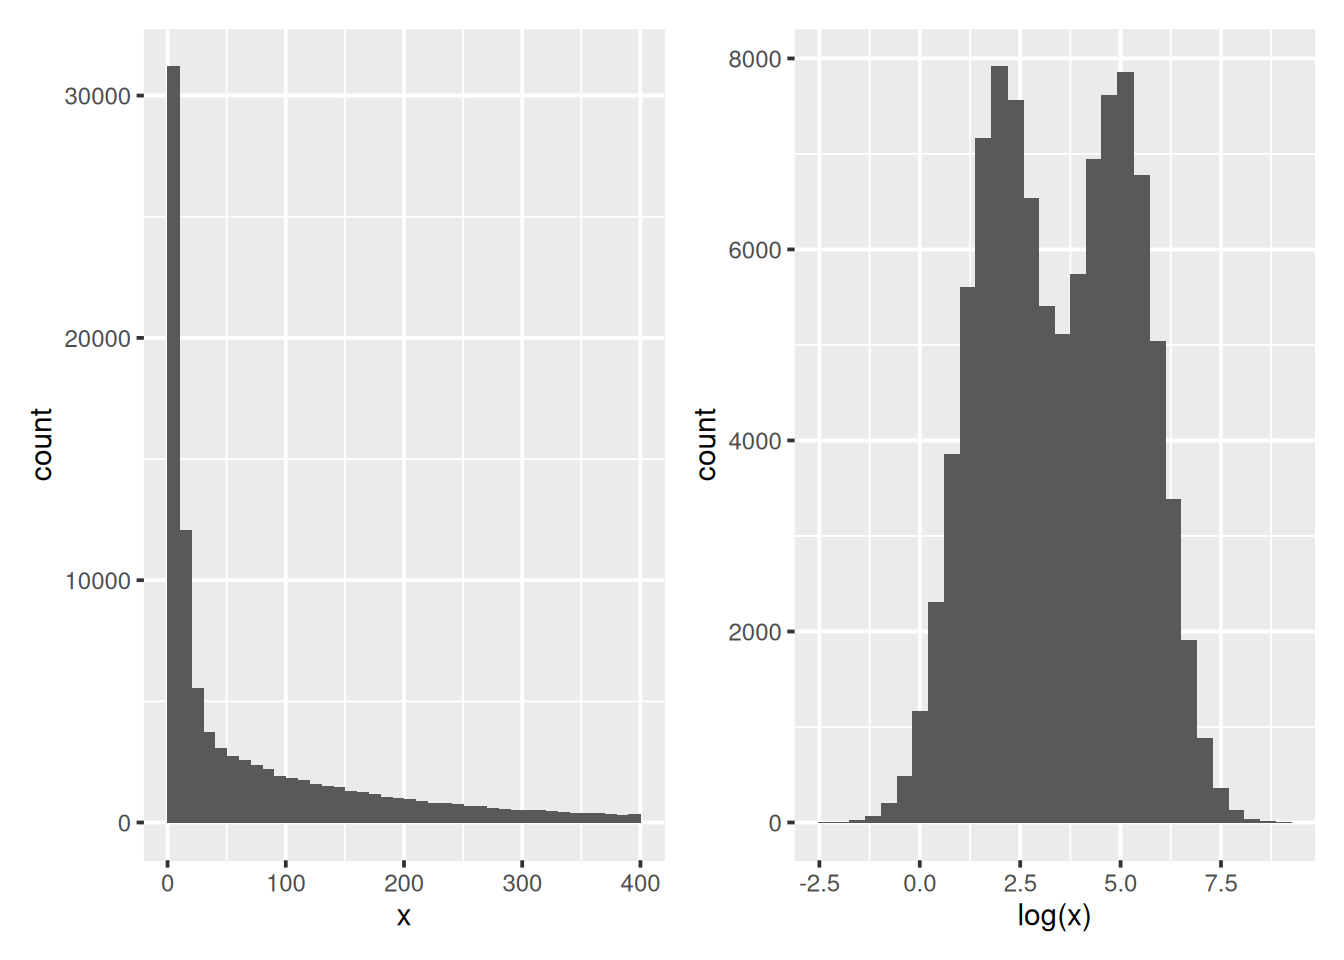
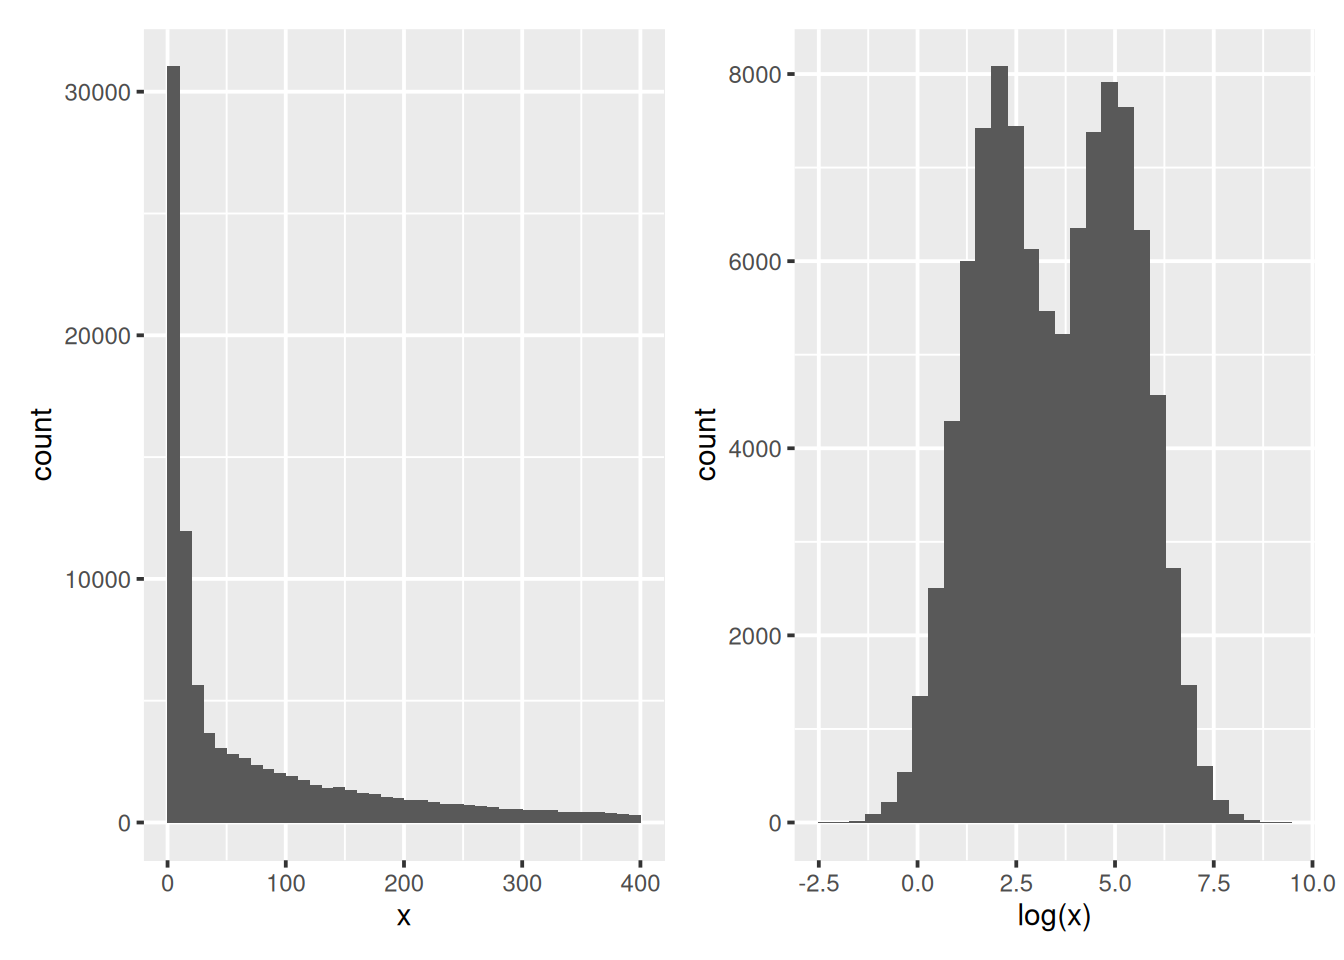
update course

diff --git a/docs/sec-vis.html b/docs/sec-vis.html
@@ -13,7 +13,7 @@
 
 <meta name="author" content="Laurent Gatto" />
 
-<meta name="date" content="2025-10-14" />
+<meta name="date" content="2025-10-15" />
 
 <script type="text/x-mathjax-config">
 MathJax.Hub.Config({
@@ -949,7 +949,7 @@ of the data.</p>
 <span id="cb36-9"><a href="sec-vis.html#cb36-9" tabindex="-1"></a>p2 <span class="ot">&lt;-</span>  <span class="fu">ggplot</span>(sim, <span class="fu">aes</span>(<span class="fu">log</span>(x))) <span class="sc">+</span></span>
 <span id="cb36-10"><a href="sec-vis.html#cb36-10" tabindex="-1"></a>    <span class="fu">geom_histogram</span>(<span class="at">bins =</span> <span class="dv">30</span>)</span>
 <span id="cb36-11"><a href="sec-vis.html#cb36-11" tabindex="-1"></a>p1 <span class="sc">+</span> p2</span></code></pre></div>
-<pre><code>## Warning: Removed 7997 rows containing non-finite outside the scale range
+<pre><code>## Warning: Removed 8016 rows containing non-finite outside the scale range
 ## (`stat_bin()`).</code></pre>
 <div class="figure">
 <span style="display:block;" id="fig:sim"></span>
@@ -1198,7 +1198,7 @@ otherwise. Below are some example outputs.</p>
 <a href="sec-obj.html"><button class="btn btn-default">Next</button></a>
 </p>
 <p class="build-date">Page built: 
-2025-10-14
+2025-10-15
  using 
 R version 4.5.0 (2025-04-11)
 </p>

diff --git a/docs/sec-biostrings.html b/docs/sec-biostrings.html
@@ -13,7 +13,7 @@
 
 <meta name="author" content="Laurent Gatto" />
 
-<meta name="date" content="2025-10-14" />
+<meta name="date" content="2025-10-15" />
 
 <script type="text/x-mathjax-config">
 MathJax.Hub.Config({
@@ -884,7 +884,11 @@ manually reviewed complete human proteome (containing about 20500
 proteins). To do so, choose <em>Proteomes</em> on the main page, then search
 for <em>Homo sapiens</em>, select it among the list of hits, choose the
 reviewed Swiss-Prot release, and download all entries in compressed
-fasta format (see <a href="https://youtu.be/K-MVjwZzSoY">video</a>).</p>
+fasta format.</p>
+<p>Alternatively, under <em>Proteins UniProt Knowledge base</em>, choose
+<em>Reviewed (SwissProt)</em>, then in the left panel, select Human (20,420),
+then <em>Download</em>, choosing <em>FASTA (canonical)</em> and <em>compressed</em> format
+(<a href="https://youtu.be/NHuC47xn-e4">video</a>).</p>
 <p class="question-end">
 <span class="fa fa-square-o solution-icon"></span>
 </p>
@@ -957,7 +961,7 @@ proteins.</p>
 <a href="sec-norm.html"><button class="btn btn-default">Next</button></a>
 </p>
 <p class="build-date">Page built: 
-2025-10-14
+2025-10-15
  using 
 R version 4.5.0 (2025-04-11)
 </p>

diff --git a/docs/sec-sl.html b/docs/sec-sl.html
@@ -13,7 +13,7 @@
 
 <meta name="author" content="Laurent Gatto" />
 
-<meta name="date" content="2025-10-14" />
+<meta name="date" content="2025-10-15" />
 
 <script type="text/x-mathjax-config">
 MathJax.Hub.Config({
@@ -1051,7 +1051,7 @@ most reliable assignments one, and setting the unreliable ones to
 <a href="sec-biovis.html"><button class="btn btn-default">Next</button></a>
 </p>
 <p class="build-date">Page built: 
-2025-10-14
+2025-10-15
  using 
 R version 4.5.0 (2025-04-11)
 </p>

diff --git a/docs/sec-norm.html b/docs/sec-norm.html
@@ -13,7 +13,7 @@
 
 <meta name="author" content="Laurent Gatto" />
 
-<meta name="date" content="2025-10-14" />
+<meta name="date" content="2025-10-15" />
 
 <script type="text/x-mathjax-config">
 MathJax.Hub.Config({
@@ -759,7 +759,7 @@ samples distributions at each step. Interpret what you see.</p>
 <a href="sec-mlintro.html"><button class="btn btn-default">Next</button></a>
 </p>
 <p class="build-date">Page built: 
-2025-10-14
+2025-10-15
  using 
 R version 4.5.0 (2025-04-11)
 </p>

diff --git a/docs/sec-biovis.html b/docs/sec-biovis.html
@@ -13,7 +13,7 @@
 
 <meta name="author" content="Laurent Gatto" />
 
-<meta name="date" content="2025-10-14" />
+<meta name="date" content="2025-10-15" />
 
 <script type="text/x-mathjax-config">
 MathJax.Hub.Config({
@@ -493,7 +493,7 @@ number of intersections (default is 40) become useful.</p>
 <a href="sec-ccl.html"><button class="btn btn-default">Next</button></a>
 </p>
 <p class="build-date">Page built: 
-2025-10-14
+2025-10-15
  using 
 R version 4.5.0 (2025-04-11)
 </p>

diff --git a/docs/sec-ccl.html b/docs/sec-ccl.html
@@ -13,7 +13,7 @@
 
 <meta name="author" content="Laurent Gatto" />
 
-<meta name="date" content="2025-10-14" />
+<meta name="date" content="2025-10-15" />
 
 <script type="text/x-mathjax-config">
 MathJax.Hub.Config({
@@ -511,7 +511,7 @@ effect of that outlier of the differential analysis.</li>
 <a href="sec-si.html"><button class="btn btn-default">Next</button></a>
 </p>
 <p class="build-date">Page built: 
-2025-10-14
+2025-10-15
  using 
 R version 4.5.0 (2025-04-11)
 </p>

diff --git a/docs/sec-obj.html b/docs/sec-obj.html
@@ -13,7 +13,7 @@
 
 <meta name="author" content="Laurent Gatto" />
 
-<meta name="date" content="2025-10-14" />
+<meta name="date" content="2025-10-15" />
 
 <script type="text/x-mathjax-config">
 MathJax.Hub.Config({
@@ -1029,7 +1029,7 @@ of class <code>SummarizedExperiment</code>.</p>
 <a href="sec-biostrings.html"><button class="btn btn-default">Next</button></a>
 </p>
 <p class="build-date">Page built: 
-2025-10-14
+2025-10-15
  using 
 R version 4.5.0 (2025-04-11)
 </p>

diff --git a/docs/sec-mlintro.html b/docs/sec-mlintro.html
@@ -13,7 +13,7 @@
 
 <meta name="author" content="Laurent Gatto" />
 
-<meta name="date" content="2025-10-14" />
+<meta name="date" content="2025-10-15" />
 
 <script type="text/x-mathjax-config">
 MathJax.Hub.Config({
@@ -758,7 +758,7 @@ but these are beyond the scope of this course.</p>
 <a href="sec-testing.html"><button class="btn btn-default">Next</button></a>
 </p>
 <p class="build-date">Page built: 
-2025-10-14
+2025-10-15
  using 
 R version 4.5.0 (2025-04-11)
 </p>

diff --git a/docs/sec-refresher.html b/docs/sec-refresher.html
@@ -13,7 +13,7 @@
 
 <meta name="author" content="Laurent Gatto" />
 
-<meta name="date" content="2025-10-14" />
+<meta name="date" content="2025-10-15" />
 
 <script type="text/x-mathjax-config">
 MathJax.Hub.Config({
@@ -430,7 +430,7 @@ value, and apply it on the object’s assay.</p></li>
 <a href="sec-vis.html"><button class="btn btn-default">Next</button></a>
 </p>
 <p class="build-date">Page built: 
-2025-10-14
+2025-10-15
  using 
 R version 4.5.0 (2025-04-11)
 </p>

diff --git a/docs/sec-ul.html b/docs/sec-ul.html
@@ -13,7 +13,7 @@
 
 <meta name="author" content="Laurent Gatto" />
 
-<meta name="date" content="2025-10-14" />
+<meta name="date" content="2025-10-15" />
 
 <script type="text/x-mathjax-config">
 MathJax.Hub.Config({
@@ -999,7 +999,7 @@ average marker profiles, such as shown below.</p></li>
 <a href="sec-sl.html"><button class="btn btn-default">Next</button></a>
 </p>
 <p class="build-date">Page built: 
-2025-10-14
+2025-10-15
  using 
 R version 4.5.0 (2025-04-11)
 </p>

diff --git a/docs/index.html b/docs/index.html
@@ -13,7 +13,7 @@
 
 <meta name="author" content="Laurent Gatto" />
 
-<meta name="date" content="2025-10-14" />
+<meta name="date" content="2025-10-15" />
 
 <script type="text/x-mathjax-config">
 MathJax.Hub.Config({
@@ -377,7 +377,7 @@ course. It can be installed with</p>
 <a href="sec-refresher.html"><button class="btn btn-default">Next</button></a>
 </p>
 <p class="build-date">Page built: 
-2025-10-14
+2025-10-15
  using 
 R version 4.5.0 (2025-04-11)
 </p>

diff --git a/docs/sec-si.html b/docs/sec-si.html
@@ -13,7 +13,7 @@
 
 <meta name="author" content="Laurent Gatto" />
 
-<meta name="date" content="2025-10-14" />
+<meta name="date" content="2025-10-15" />
 
 <script type="text/x-mathjax-config">
 MathJax.Hub.Config({
@@ -321,7 +321,7 @@ the following code:</p>
 <a href="sec-ccl.html"><button class="btn btn-default">Previous</button></a>
 </p>
 <p class="build-date">Page built: 
-2025-10-14
+2025-10-15
  using 
 R version 4.5.0 (2025-04-11)
 </p>
